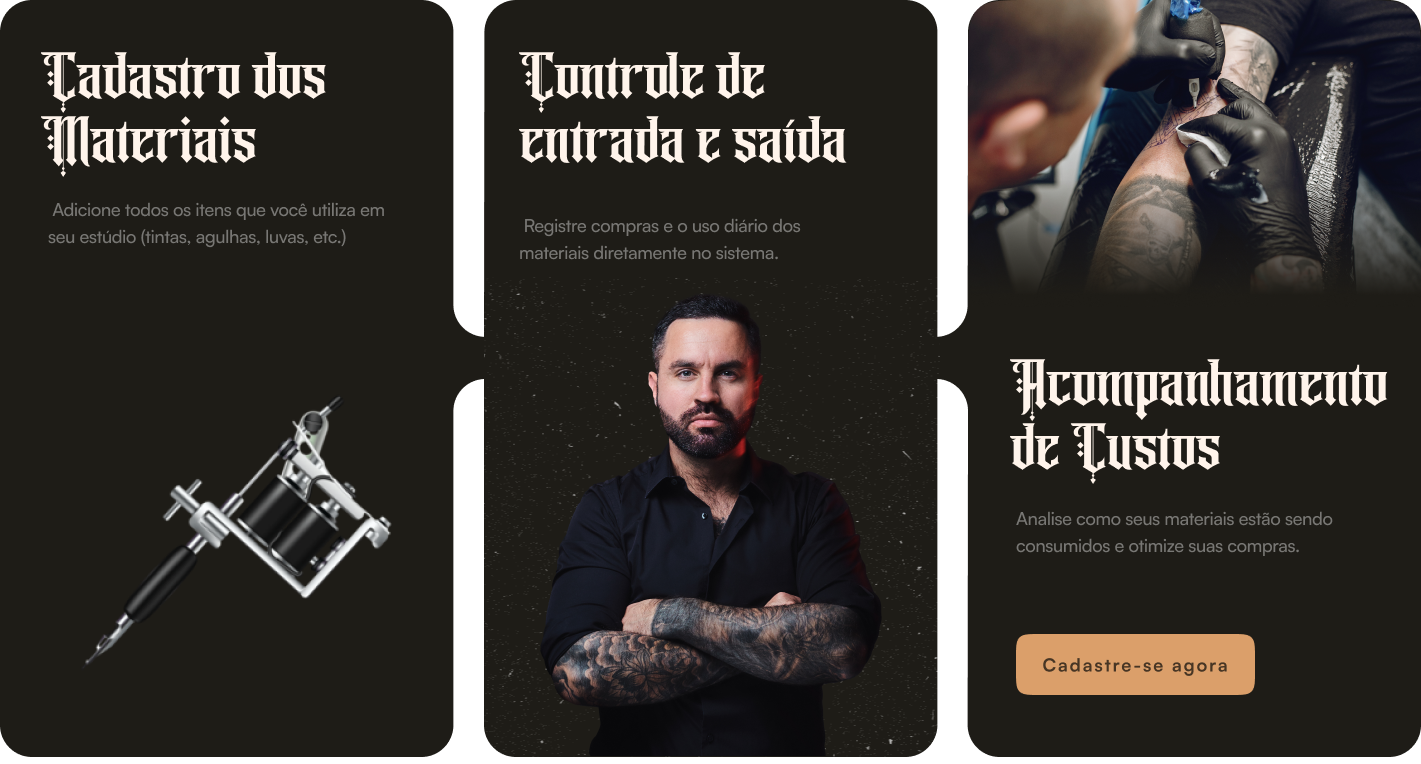
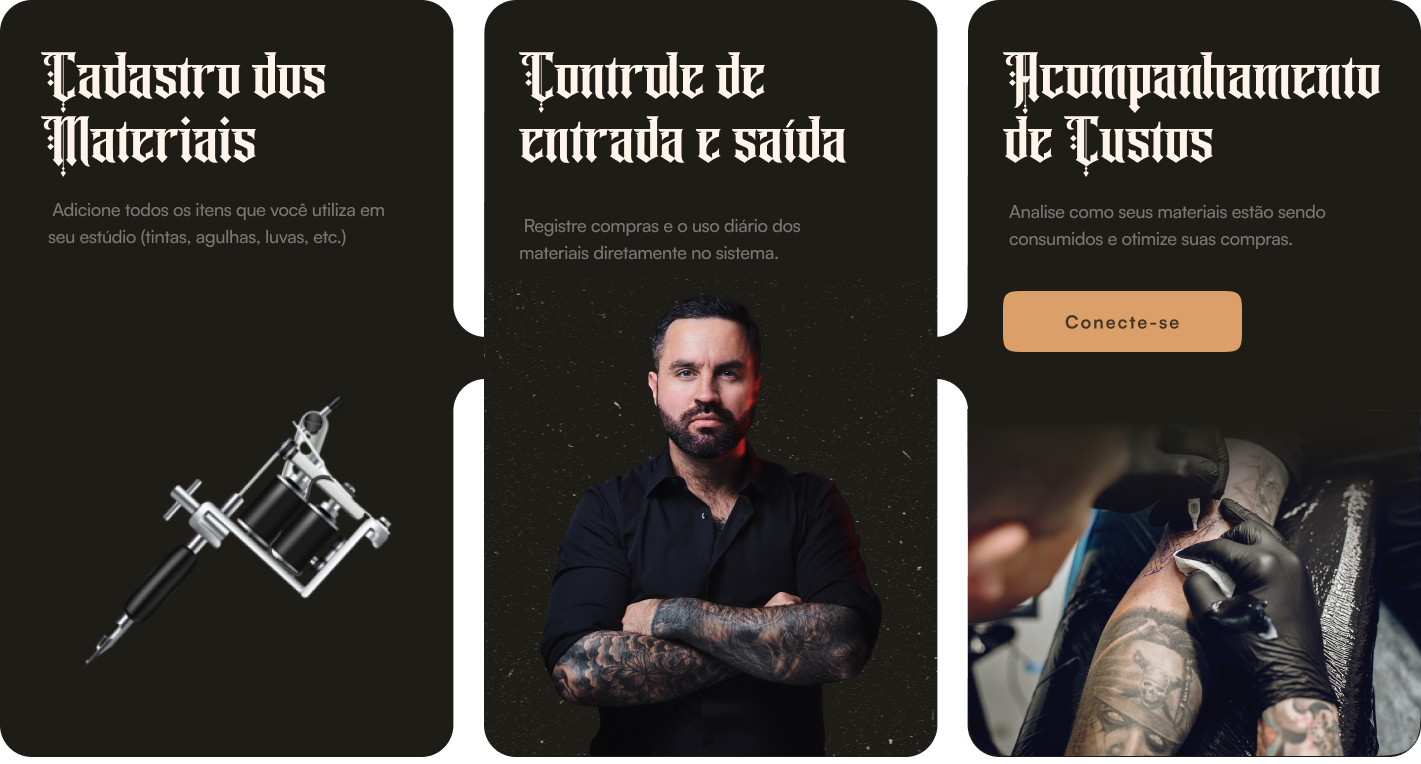
lading page detalhes

Changed region(s): [[0.6812, 0.0, 1.0, 0.9935]]

diff --git a/src/app/tattoo/tattoo.component.html b/src/app/tattoo/tattoo.component.html
@@ -5,7 +5,7 @@
             <div class="pinturas">
                 <h1>Pinturas corporais que <span class="highlight">desafiam</span> sua alma</h1>
                 <p>Organize seu estúdio de tatuagem com nosso sistema inteligente, otimize o tempo e nunca mais perca o controle sobre seus materiais.</p>
-                <img class="botaoOrcamento" src="/assets/images/home/botao.png" alt="faça seu orçamento" />
+                <img class="botaoOrcamento" src="/assets/images/home/botao.png" alt="login" [routerLink]="['/login']" />
             </div>
             
             <div class="caveira">

diff --git a/src/app/login/login.component.ts b/src/app/login/login.component.ts
@@ -28,7 +28,7 @@ export class LoginComponent {
   
     console.log("Enviando dados:", body); // Verifique os dados que estão sendo enviados
   
-    this.http.post('http://localhost:8080/login/l', body, {
+    this.http.post('http://localhost:8080/home/login', body, {
       headers: { 'Content-Type': 'application/json' }
     }).subscribe({
       next: (resp: any) => {

diff --git a/src/app/tattoo/tattoo.component.ts b/src/app/tattoo/tattoo.component.ts
@@ -1,9 +1,10 @@
 import { Component} from '@angular/core';
+import { RouterModule } from '@angular/router';
 
 @Component({
   selector: 'app-tattoo',
   standalone: true,
-  imports: [],
+  imports: [RouterModule],
   templateUrl: '../tattoo/tattoo.component.html',
   styleUrls: ['../tattoo/tattoo.component.scss'],
   

diff --git a/src/app/login/login.component.scss b/src/app/login/login.component.scss
@@ -19,8 +19,8 @@
 }
 
 .login-page {
-    background-image: url('../../../public/assets/images/login/fundoLogin.png');
-    background-color: black;
+  
+    background-color: rgb(0, 0, 0);
     color: #FFF4EB;
     background-size:cover;
     width: 100%;
